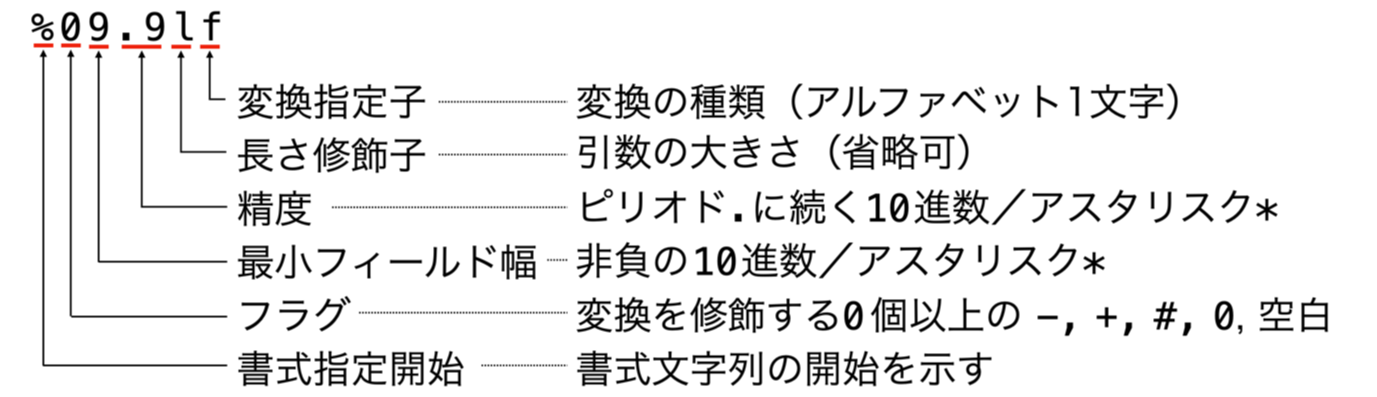
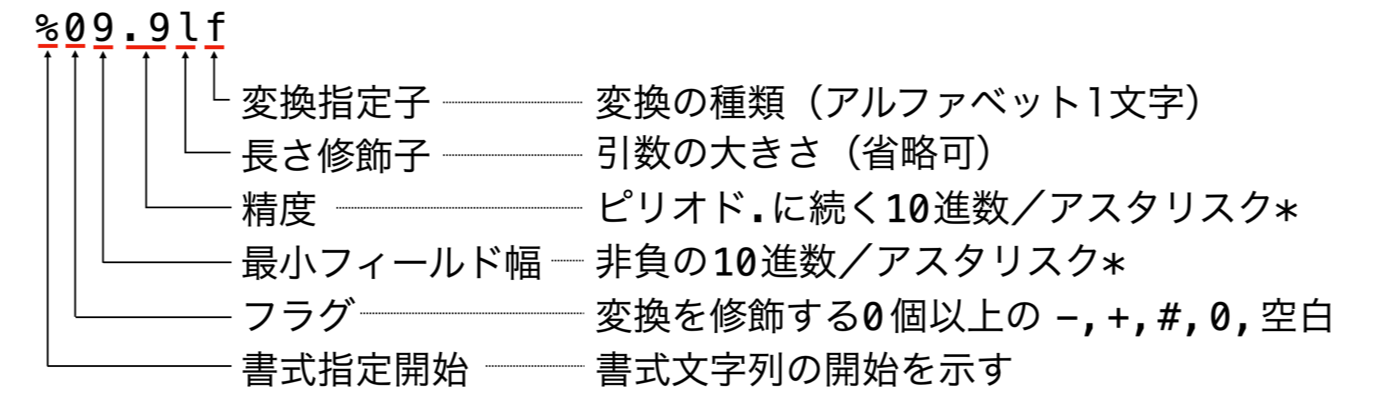
Update post.

Changed region(s): [[0.0, 0.0302, 0.968, 0.9975], [0.1561, 0.4534, 0.968, 0.5743], [0.1561, 0.6045, 0.8119, 0.7254]]

diff --git a/2024/04/14/printf-for-arduino-uno-r4.html b/2024/04/14/printf-for-arduino-uno-r4.html
@@ -132,7 +132,7 @@
 
 <p><code class="language-plaintext highlighter-rouge">printf()</code> や <code class="language-plaintext highlighter-rouge">scanf()</code> で押さえるべき書式文字列のフォーマットは次の通りです。</p>
 
-<p><img src="/images/2024/04-14/printf-format.png" alt="`printf()` や `scanf()` の書式" title="printf() や scanf() の書式" class="simple" width="1377" height="397"></p>
+<p><img src="/images/2024/04-14/printf-format.png" alt="`printf()` や `scanf()` の書式" title="printf() や scanf() の書式" class="simple" width="1377" height="398"></p>
 
 <p>厳密な書式指定仕様はそれなりのボリュームになり、ここには書ききれません。Linux 系や <a href="https://zenn.dev/kumamoto/articles/d536ac6df8a544" title="Macでもmanコマンドの出力を日本語/英語切り替え出来るようにする">Mac</a> であれば、シェルから <code class="language-plaintext highlighter-rouge">man 3 printf</code> とコマンドを打てば標準 C ライブラリの書式を調べられますし、簡潔にまとめてくれている次のサイトもオススメです。</p>
 
